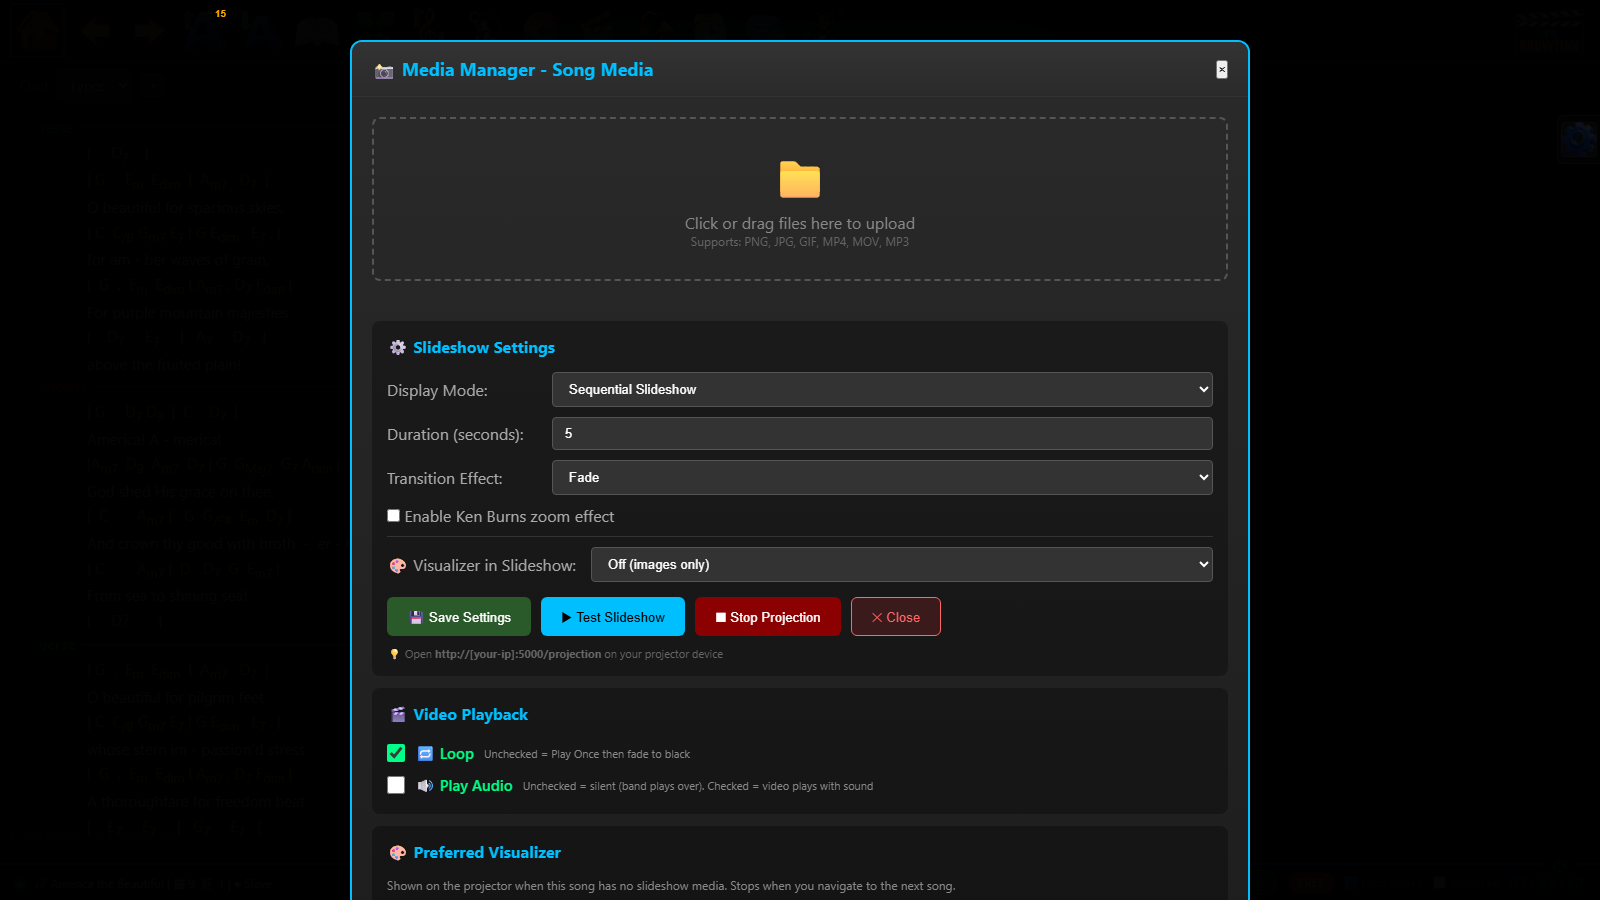
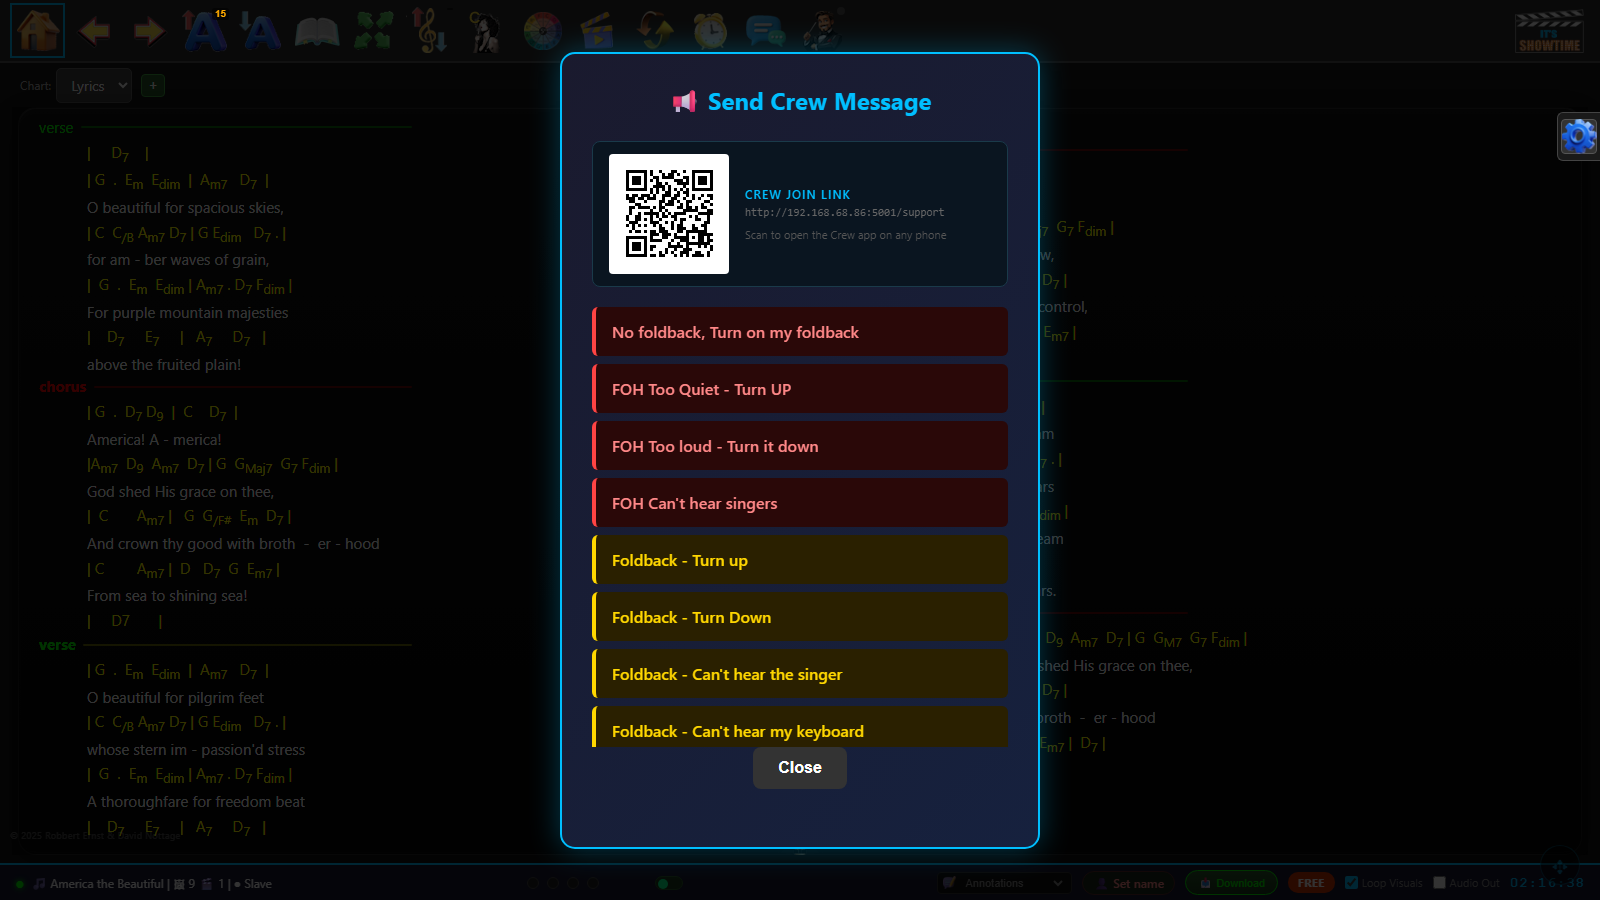
Simulator: fix crew screen + Previous/Next song cycle
- Crew icon now shows the real Send-Crew-Message panel (QR crew-join +
  colour-coded foldback/FOH cues) — the earlier capture had grabbed the
  Media Manager by mistake (modal hadn't closed). Recaptured in isolation.
- Previous/Next now cycle through the setlist (America → Amazing Grace →
  Advance Australia Fair, wraps) instead of single fixed screens; added
  song3 capture.
- Saved original concert SVG (concert_art.svg) as a copyright-safe asset.

diff --git a/simulator.html b/simulator.html
@@ -119,8 +119,8 @@
   // x positions (%) match the real on-screen icons in static/sim/base.png, left→right.
   const ICONS = [
     { x:0.63,  title:'Home / Search',     desc:'Jump to your library and find any song.' },
-    { x:4.13,  title:'Previous song',     desc:'Step back a song — every device follows.', screen:'base' },
-    { x:7.63,  title:'Next song',         desc:'Advance to the next song in the setlist.', screen:'song2' },
+    { x:4.13,  title:'Previous song',     desc:'Step back through the setlist — every device follows.', action:'prevSong' },
+    { x:7.63,  title:'Next song',         desc:'Advance through the setlist — every device follows.', action:'nextSong' },
     { x:11.13, title:'Larger font',       desc:'Bump the chart text one size larger.', screen:'font_bigger' },
     { x:14.63, title:'Smaller font',      desc:'Bring the chart text one size smaller.', screen:'font_smaller' },
     { x:18.13, title:'Page view',         desc:'Toggle between two-page and single-page layout.', toggle:['base','onepage'] },
@@ -137,7 +137,10 @@
   const SCREENS = { base:'static/sim/base.png', onepage:'static/sim/onepage.png',
                     transpose_up:'static/sim/transpose_up.png', transpose_down:'static/sim/transpose_down.png',
                     font_bigger:'static/sim/font_bigger.png', font_smaller:'static/sim/font_smaller.png',
-                    cof:'static/sim/cof.png', media:'static/sim/media.png', crew:'static/sim/crew.png', song2:'static/sim/song2.png' };
+                    cof:'static/sim/cof.png', media:'static/sim/media.png', crew:'static/sim/crew.png',
+                    song2:'static/sim/song2.png', song3:'static/sim/song3.png' };
+  const SONGS = ['base', 'song2', 'song3'];   // America → Amazing Grace → Advance Australia Fair
+  let songIdx = 0;
   Object.values(SCREENS).forEach(s => { const i = new Image(); i.src = s; });   // preload
 
   const frame = document.getElementById('frame');
@@ -169,6 +172,8 @@
     let key = ic.screen;
     if (ic.toggle) { toggleState[i] = toggleState[i] ? 0 : 1; key = ic.toggle[toggleState[i]]; }
     else if (ic.upScreen || ic.downScreen) { key = (dir === 'down') ? ic.downScreen : ic.upScreen; }  // ▲ up / ▼ down
+    else if (ic.action === 'nextSong') { songIdx = (songIdx + 1) % SONGS.length; key = SONGS[songIdx]; }
+    else if (ic.action === 'prevSong') { songIdx = (songIdx - 1 + SONGS.length) % SONGS.length; key = SONGS[songIdx]; }
     if (key && SCREENS[key]) screen.src = SCREENS[key];
     placeRing(i); caption(i);
     if (typeof window.gtag === 'function') window.gtag('event', 'demo_press', { icon: ic.title, dir: dir || 'up' });
